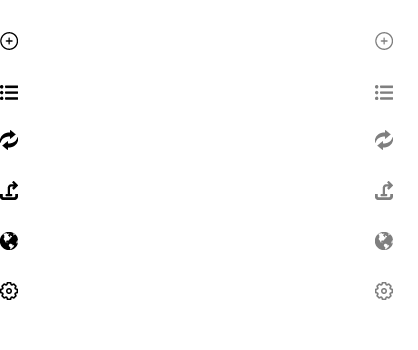
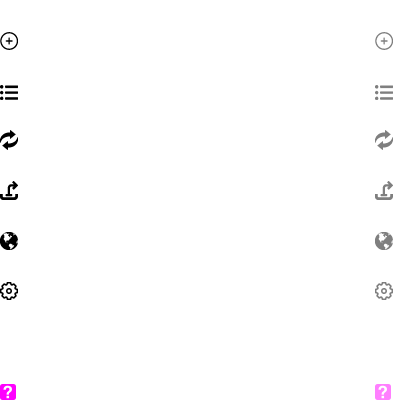
Style dashboard nav menu

diff --git a/django/linky/templates/admin-layout.html b/django/linky/templates/admin-layout.html
@@ -4,13 +4,15 @@
 <!-- TODO: dashboard blurb and accompanying JS? -->
 
 <div id="dashboard-container">
+    {% comment %}
+    XXX do we need bootstrap tabs here, or just ordinary <li>s?
     <ul class="nav nav-pills nav-stacked" id="dashboard-tabs">
         <li class="active"><a href="#archive" data-toggle="tab" id="dashboard-add">Add a Link</a></li>
         <li><a href="#library" data-toggle="tab" id="dashboard-library">Library</a></li>
         <li><a href="#batch-convert" data-toggle="tab" id="dashboard-batch-convert">Batch Convert</a></li>
         <li><a href="#export" data-toggle="tab" id="dashboard-export">Export</a></li>
         <li><a href="#custom-domain" data-toggle="tab" id="dashboard-custom-domain">Custom Domain</a></li>
-        <!-- <li><a href="#settings" data-toggle="tab" id="dashboard-settings">Settings</a></li> -->
+        <li><a href="#settings" data-toggle="tab" id="dashboard-settings">Settings</a></li>
     </ul>
     <div class="tab-content">
         <div class="tab-pane active" id="archive">
@@ -35,6 +37,68 @@
             <!-- FIXME add domain instructions -->
         </div><!--/#custom-domain-->
     </div><!--/.tab-content-->
+    {% endcomment %}
+
+    <!-- Dashboard tabs -->
+    <!-- FIXME set active tab based on current page -->
+    <!-- FIXME add correct urls below -->
+    <!-- FIXME icons for all menu items -->
+    <ul class="nav nav-pills nav-stacked" id="dashboard-tabs">
+
+        <!-- Add link -->
+        <li class="active"><a href="{% url 'landing' %}" id="dashboard-add">Add a Link</a></li>
+
+        <!-- Library -->
+        <li><a href="{% url 'user_management_created_links' %}" id="dashboard-library">Links</a></li>
+
+        <!-- Vested links -->
+        {% if user.groups.all.0.name == 'registrar_member' or user.groups.all.0.name == 'registry_member' or user.groups.all.0.name == 'journal_member' %}
+        <li><a href="{% url 'user_management_vested_links' %}" class="dashboard-placeholder">Vested links</a></li>
+        {% endif %}<!-- FIXME change icon -->
+
+        <!-- Batch convert -->
+        <li><a href="#batch-convert" id="dashboard-batch-convert">Batch Convert</a></li>
+
+        <!-- Export -->
+        <li><a href="#export" id="dashboard-export">Export</a></li>
+
+        <!-- Custom Domain -->
+        <li><a href="#custom-domain" id="dashboard-custom-domain">Custom Domain</a></li>
+
+        <!-- Settings -->
+        <li><a href="{% url 'user_management_manage_account' %}" id="dashboard-settings">Settings</a></li>
+
+
+        <!-- Manage users -->
+        {% if user.groups.all.0.name == 'registrar_member' or user.groups.all.0.name == 'registry_member' %}
+        <li><a href="javascript:void(0);" class="dashboard-placeholder" id="dashboard-users">Manage Users</a></li>
+        {% endif %}
+
+        <!-- Registrars and registrar users -->
+        {% if user.groups.all.0.name == 'registry_member' %}
+        <li class="dashboard-secondary users-secondary"><a href="{% url 'user_management_manage_registrar' %}">Registrars</a></li>
+        <li class="dashboard-secondary users-secondary"><a href="{% url 'user_management_manage_registrar_member' %}">Registrar Users</a></li>{% endif %}
+
+        <!-- Journal users -->
+        {% if user.groups.all.0.name == 'registrar_member' or user.groups.all.0.name == 'registry_member' %}
+        <li class="dashboard-secondary users-secondary"><a href="{% url 'user_management_manage_journal_member' %}">Journal Users</a></li>
+        {% endif %}
+  
+        <!-- Journal member -->
+        {% if user.groups.all.0.name == 'journal_member' %}
+        <li class="dashboard-secondary users-secondary"><a href="{% url 'user_management_sponsoring_library' %}">Sponsoring Library</a></li>
+        {% endif %}
+        
+  
+    </ul><!--/#dashboard-tabs-->
+
+    <!-- Dashboard tab content -->
+    <div class="tab-content">
+        <div class="tab-pane active">
+        {% block content %}{% endblock content %}
+        </div><!--/.tab-pane-->
+    </div><!--/.tab-content-->
+
 </div><!--/#dashboard-container-->
 
 
@@ -77,8 +141,6 @@
 
   </div> <!--span-->
   <div class="span9">
-  {% block content %}
-  {% endblock %}
   </div>
 
 {% endcomment %}
@@ -87,30 +149,13 @@
 {% endblock %}
 
 {% block scripts %}
-<script src="{{ STATIC_URL }}js/bootstrap-tab.js"></script>
 <script>
 
-// Initialize tabs
-$(document).ready(function() {
-    $('#dashboard-tabs').tab();
-    $('#dashboard-close').click(function() {
-        $('.dashboard-blurb').slideUp();
-        $('#dashboard-container').css({'margin-top': '50px'});
+$(document).ready(function(){
+    // Toggle users dropdown
+    $('#dashboard-users').click(function(){
+        $('.users-secondary').toggle();
     });
-});
-
-// Open requested tab:
-
-// Javascript to enable link to tab
-var hash = document.location.hash;
-var prefix = "tab_";
-if (hash) {
-    $('#dashboard-tabs a[href='+hash.replace(prefix,"")+']').tab('show');
-} 
-
-// Change hash for page-reload
-$('#dashboard-tabs a').on('shown', function (e) {
-    window.location.hash = e.target.hash.replace("#", "#" + prefix);
 });
 
 </script>

diff --git a/django/static/css/style.css b/django/static/css/style.css
@@ -24,7 +24,7 @@ body {
 div.main-container {
     overflow: hidden;
     margin: 0 auto;
-    width: 800px;
+    width: 960px;
 }
 
 h1, h2, h3, h4, h5 { font-weight: normal; }
@@ -76,7 +76,7 @@ header {
     header nav {
         float: right;
         margin-top: 32px;
-        width: 600px;
+        width: 800px;
     }
 
         header nav ul {
@@ -273,7 +273,7 @@ div#dashboard-container {
     div#dashboard-container ul#dashboard-tabs {
         display: block;
         float: left;
-        margin-right: 30px;
+        margin: 0 30px 50px 0;
         width: 250px;
     }
 
@@ -316,13 +316,39 @@ div#dashboard-container {
             a#dashboard-settings:hover { background-position: -356px -264px; }
             a#dashboard-credits { background-position: 19px -314px; }
             a#dashboard-credits:hover { background-position: -356px -314px; }
+            a.dashboard-placeholder { background-position: 19px -364px; }
+            a.dashboard-placeholder:hover { background-position: -356px -364px; }
 
+        div#dashboard-container ul#dashboard-tabs li.divider {
+            border-top: 1px solid #efefef;
+            height: 1px;
+        }
+
+        div#dashboard-container ul#dashboard-tabs li h3 {
+            color: #999;
+            font-size: 16px;
+            margin: 15px 0 0 0;
+            padding: 0;
+        }
+
+        div#dashboard-container ul#dashboard-tabs li.dashboard-secondary {}
+
+            div#dashboard-container ul#dashboard-tabs li.dashboard-secondary a {
+                background: none;
+                font-size: 16px;
+                margin: 0;
+                padding: 10px 0 0 51px;
+            }
+
+            div#dashboard-container ul#dashboard-tabs li.users-secondary {
+                display: none;
+            }
 
     div#dashboard-container div.tab-content {
         float: right;
         overflow: hidden;
         min-height: 300px;
-        width: 500px;
+        width: 675px;
     }
 
 div.dashboard-add-link {

diff --git a/django/linky/templates/user_management/manage_single_registrar_member.html b/django/linky/templates/user_management/manage_single_registrar_member.html
@@ -37,6 +37,3 @@
 <a href="{% url 'user_management_manage_single_registrar_member_delete' target_registrar_member.id %}"><span class="text-error"><i class="icon-trash"></i> Delete this user</span> <!--{{target_registrar_member.username}}--></a>
 
 {% endblock %}
-
-{% block scripts %}
-{% endblock %}

diff --git a/django/linky/templates/user_management/manage_single_journal_member.html b/django/linky/templates/user_management/manage_single_journal_member.html
@@ -28,6 +28,3 @@
 	<a href="{% url 'user_management_manage_single_journal_member_delete' target_member.id %}"><span class="text-error"><i class="icon-trash"></i> Delete this user</span><!--{{target_member.username}}--></a>
 
 {% endblock %}
-
-{% block scripts %}
-{% endblock %}

diff --git a/django/linky/templates/user_management/manage_registrar_members.html b/django/linky/templates/user_management/manage_registrar_members.html
@@ -66,6 +66,3 @@
 		{% endifequal %}
 
 {% endblock %}
-
-{% block scripts %}
-{% endblock %}

diff --git a/django/linky/templates/user_management/manage_registrars.html b/django/linky/templates/user_management/manage_registrars.html
@@ -64,6 +64,3 @@
     </form>
 
 {% endblock %}
-
-{% block scripts %}
-{% endblock %}

diff --git a/django/linky/templates/user_management/manage_single_journal_member_delete_confirm.html b/django/linky/templates/user_management/manage_single_journal_member_delete_confirm.html
@@ -17,6 +17,3 @@
     </form>
 
 {% endblock %}
-
-{% block scripts %}
-{% endblock %}

diff --git a/django/linky/templates/user_management/manage_single_registrar.html b/django/linky/templates/user_management/manage_single_registrar.html
@@ -26,6 +26,3 @@
     </form>
 
 {% endblock %}
-
-{% block scripts %}
-{% endblock %}

diff --git a/django/linky/templates/user_management/manage_single_registrar_member_delete_confirm.html b/django/linky/templates/user_management/manage_single_registrar_member_delete_confirm.html
@@ -17,6 +17,3 @@
     </form>
 
 {% endblock %}
-
-{% block scripts %}
-{% endblock %}

diff --git a/django/linky/templates/user_management/created-links.html b/django/linky/templates/user_management/created-links.html
@@ -49,6 +49,3 @@
     </div>
 
 {% endblock %}
-
-{% block scripts %}
-{% endblock %}

diff --git a/django/linky/templates/user_management/vested-links.html b/django/linky/templates/user_management/vested-links.html
@@ -44,6 +44,3 @@
     </div>
 
 {% endblock %}
-
-{% block scripts %}
-{% endblock %}

diff --git a/django/linky/templates/user_management/manage-account.html b/django/linky/templates/user_management/manage-account.html
@@ -14,6 +14,3 @@
 
 
 {% endblock %}
-
-{% block scripts %}
-{% endblock %}
